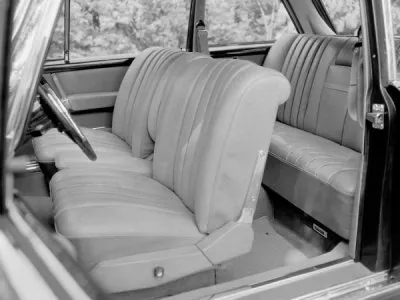
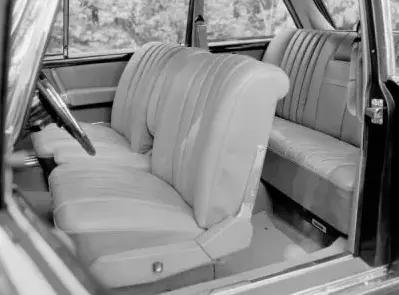
246

diff --git a/pic/ja_mb_img_l.html b/pic/ja_mb_img_l.html
@@ -434,7 +434,7 @@
 						<h5>Coupe</h5>
 						<a href="full/l/w100c_1f.jpg"><img loading="lazy" src="style/l/w100c_1f.webp" alt="メルセデス,Typ 600,w100,フロント" width="400" height="295"></a>
 						<a href="full/l/w100c_1r.jpg"><img loading="lazy" src="style/l/w100c_1r.webp" alt="メルセデス,Typ 600,w100,リヤ" width="400" height="295"></a>
-						<a href="full/l/w100c_1i.jpg"><img loading="lazy" src="style/l/w100c_1i.webp" alt="メルセデス,Typ 600,w100,内装" width="400" height="300"></a>
+						<a href="full/l/w100c_1i.jpg"><img loading="lazy" src="style/l/w100c_1i.webp" alt="メルセデス,Typ 600,w100,内装" width="399" height="295"></a>
 					</section>
 				</div>
 			</div>

diff --git a/pic/mb_img_l.html b/pic/mb_img_l.html
@@ -434,7 +434,7 @@
 						<h5>Coupé</h5>
 						<a href="full/l/w100c_1f.jpg"><img loading="lazy" src="style/l/w100c_1f.webp" alt="Mercedes,Typ 600,w100,Frontansicht" width="400" height="295"></a>
 						<a href="full/l/w100c_1r.jpg"><img loading="lazy" src="style/l/w100c_1r.webp" alt="Mercedes,Typ 600,w100,Rückansicht" width="400" height="295"></a>
-						<a href="full/l/w100c_1i.jpg"><img loading="lazy" src="style/l/w100c_1i.webp" alt="Mercedes,Typ 600,w100,Innenansicht" width="400" height="300"></a>
+						<a href="full/l/w100c_1i.jpg"><img loading="lazy" src="style/l/w100c_1i.webp" alt="Mercedes,Typ 600,w100,Innenansicht" width="399" height="295"></a>
 					</section>
 				</div>
 			</div>

diff --git a/pic/en_mb_img_l.html b/pic/en_mb_img_l.html
@@ -434,7 +434,7 @@
 						<h5>Coupe</h5>
 						<a href="full/l/w100c_1f.jpg"><img loading="lazy" src="style/l/w100c_1f.webp" alt="Mercedes,Typ 600,w100,Front view" width="400" height="295"></a>
 						<a href="full/l/w100c_1r.jpg"><img loading="lazy" src="style/l/w100c_1r.webp" alt="Mercedes,Typ 600,w100,Rear view" width="400" height="295"></a>
-						<a href="full/l/w100c_1i.jpg"><img loading="lazy" src="style/l/w100c_1i.webp" alt="Mercedes,Typ 600,w100,Interior" width="400" height="300"></a>
+						<a href="full/l/w100c_1i.jpg"><img loading="lazy" src="style/l/w100c_1i.webp" alt="Mercedes,Typ 600,w100,Interior" width="399" height="295"></a>
 					</section>
 				</div>
 			</div>
